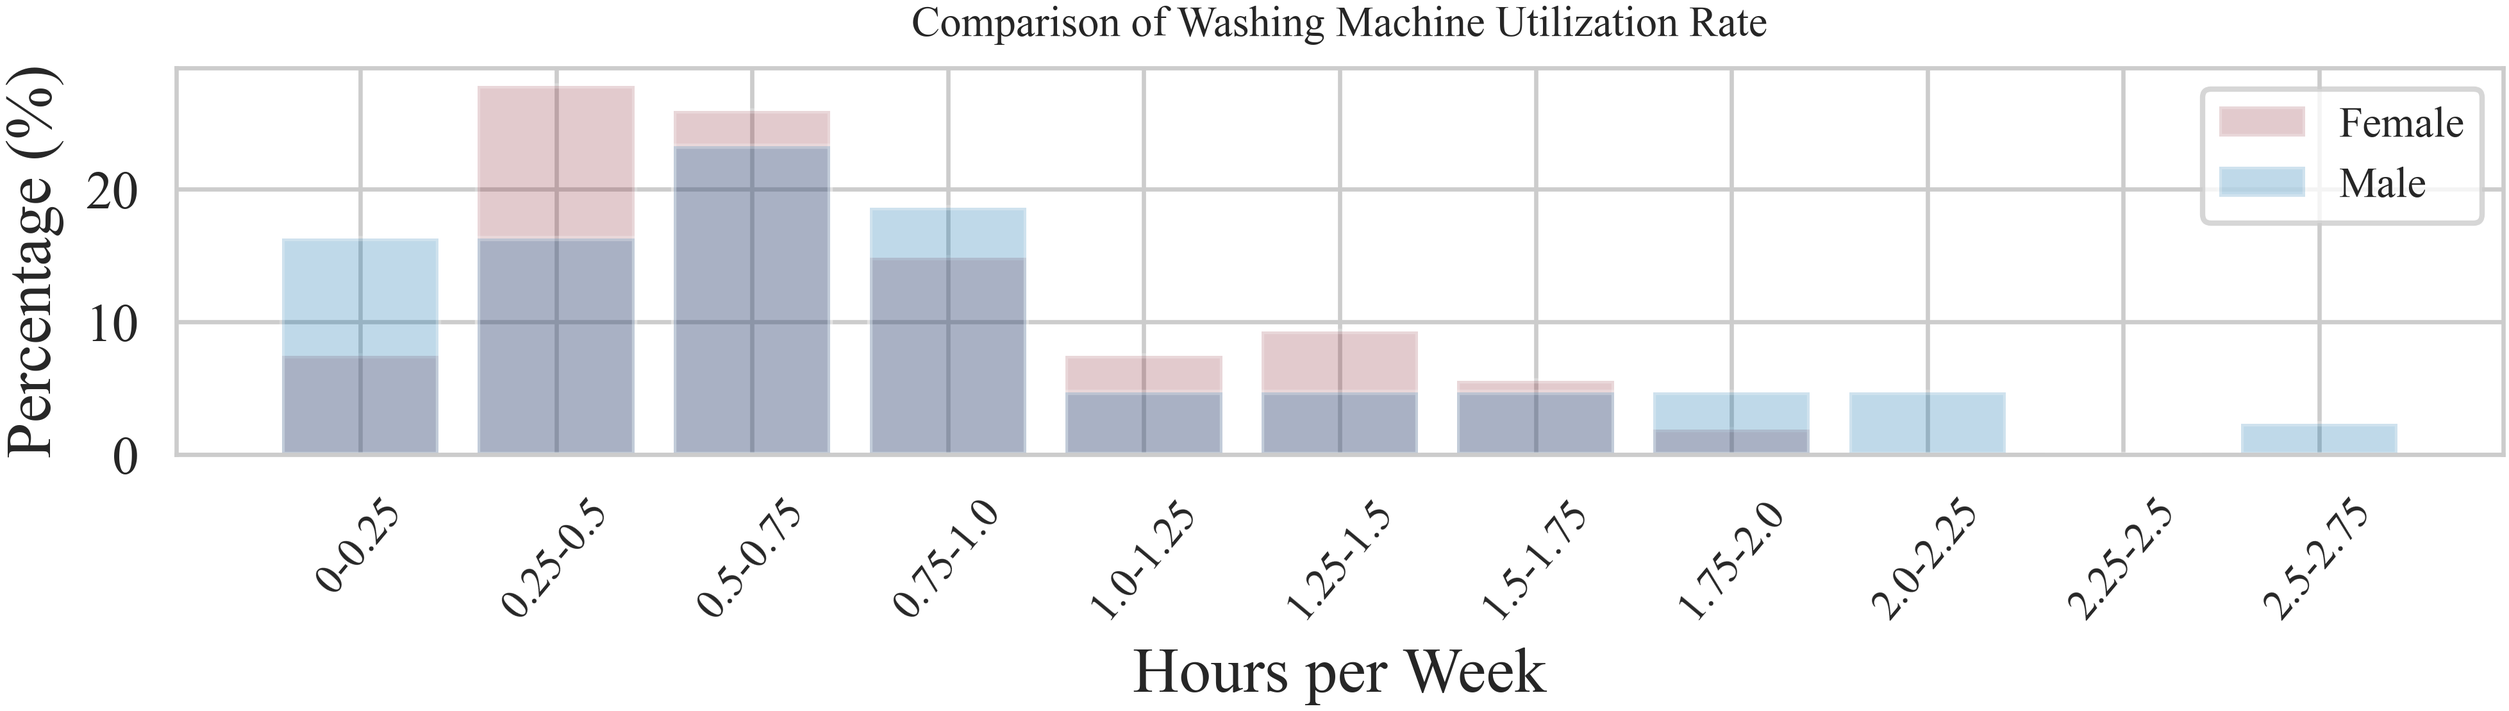
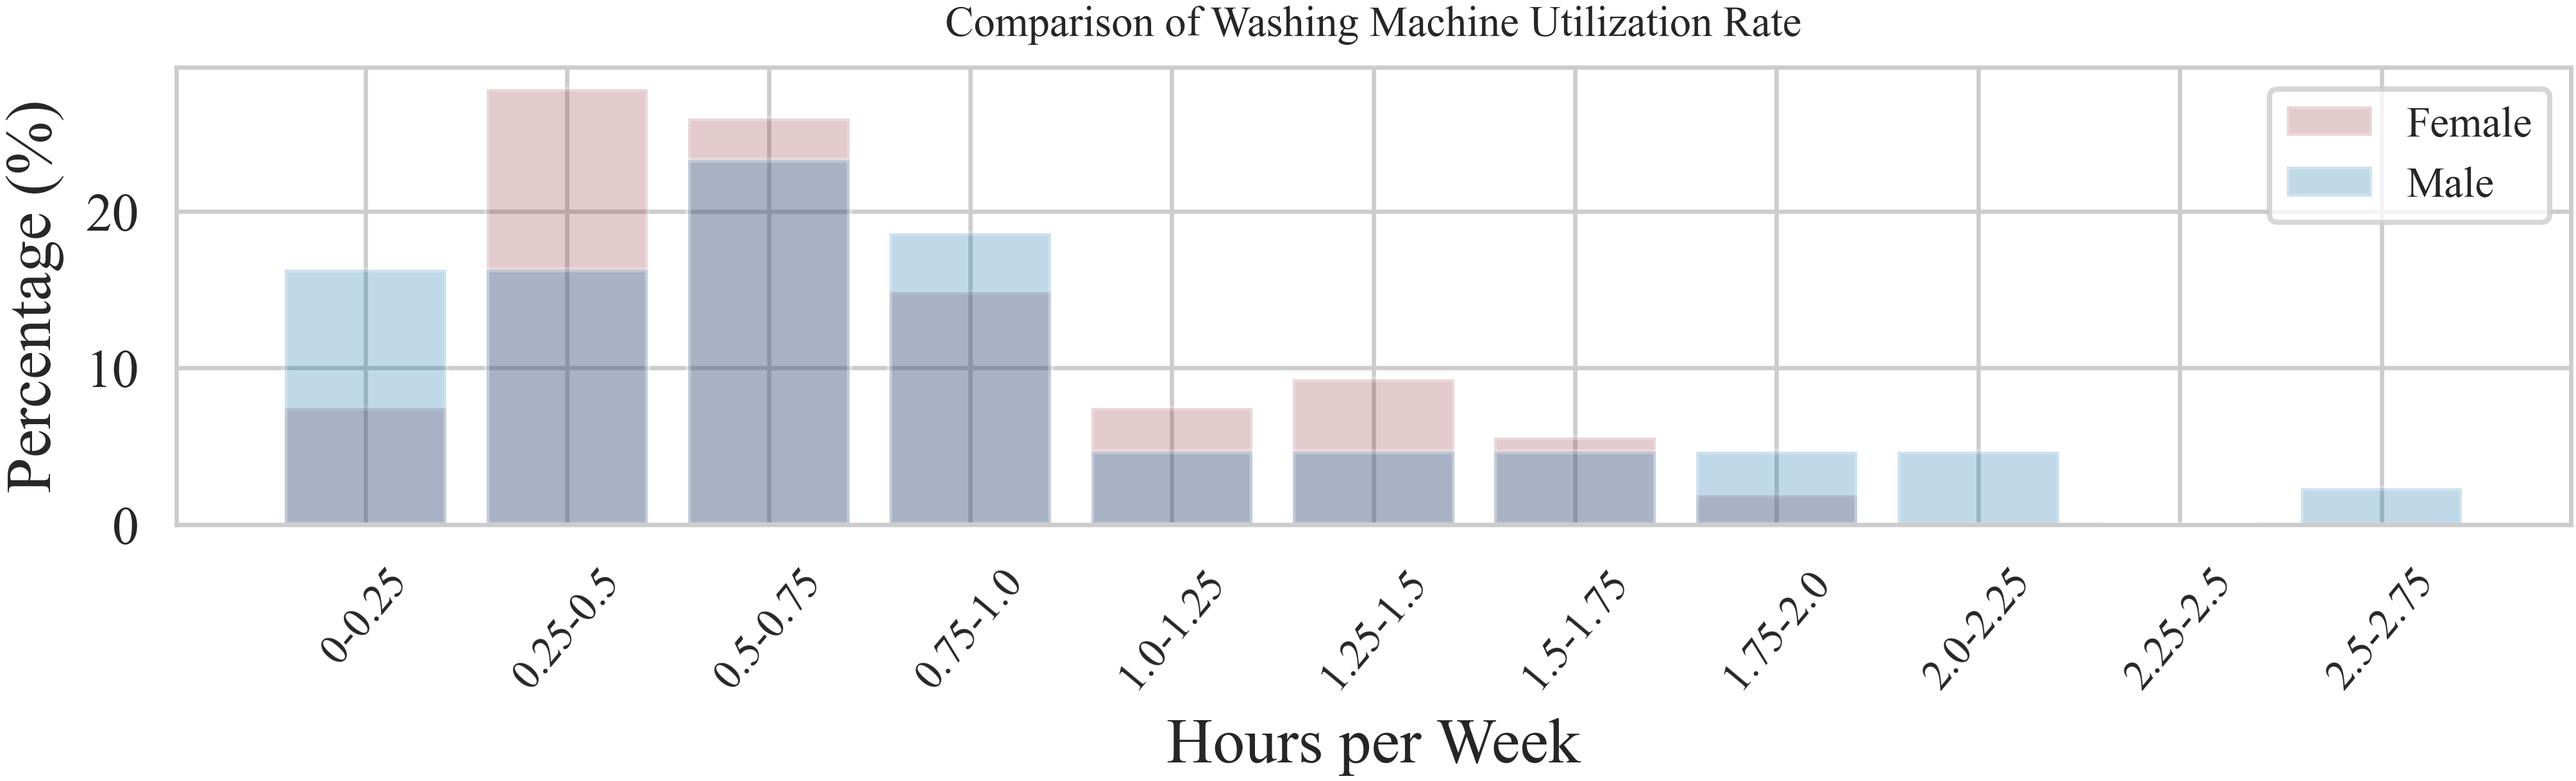
added plots again

diff --git a/analysis/analyse_washing_machine_utilization_rate.py b/analysis/analyse_washing_machine_utilization_rate.py
@@ -175,7 +175,7 @@ def plot_comparison_of_utilization_rate(fml_avg_hrs, ml_avg_hrs, resolution):
     ax.tick_params(axis='x', labelsize=8, rotation=50)
     ax.legend(loc='upper right')
 
-    plt.tight_layout()
+    # plt.tight_layout()
 
     fig.savefig(plots_path + "Comparison_Utilization_Rate.pdf", dpi=resolution)
     fig.savefig(plots_path + "Comparison_Utilization_Rate.png", dpi=resolution)
